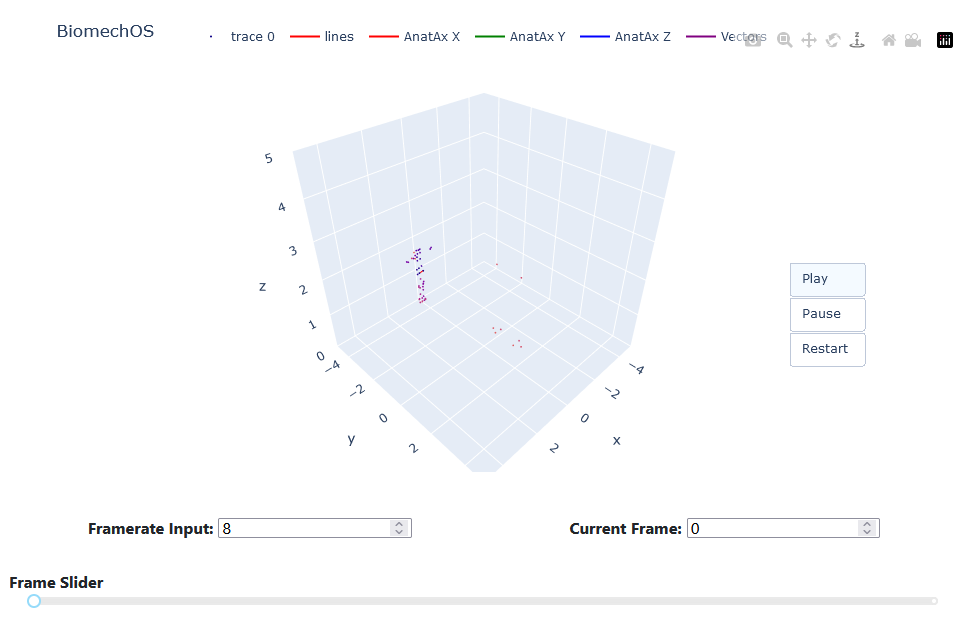
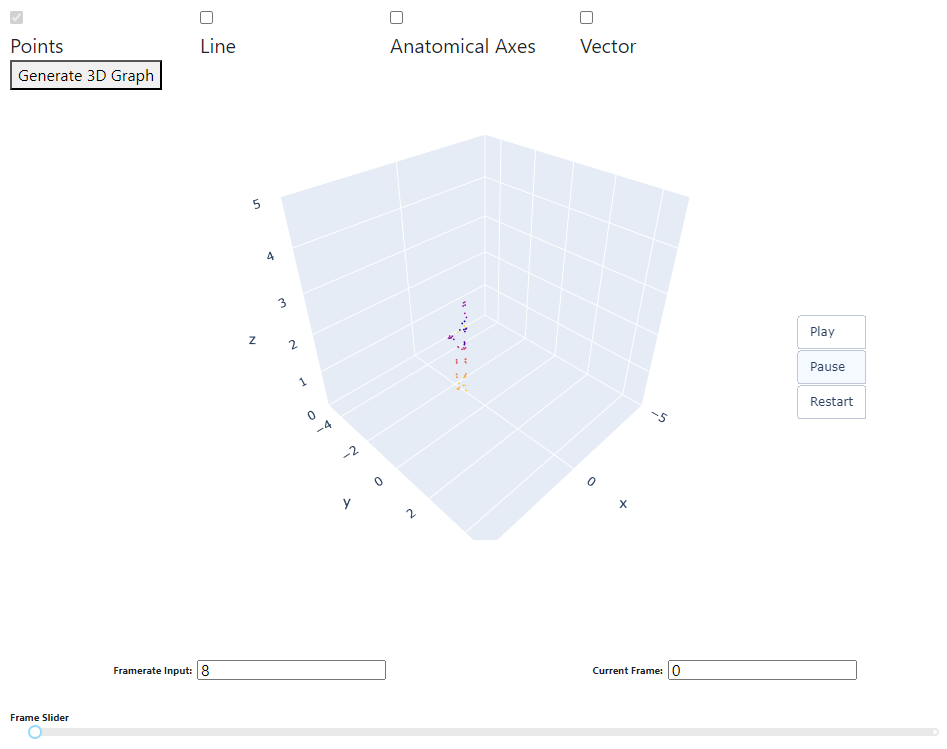
documentation updates

diff --git a/README.md b/README.md
@@ -1,6 +1,6 @@
-# BiomechOS
+# BiomechVis
 
-Within the research space, there are few tools that can be leveraged by labs for data visualization and analysis. This often leaves researchers to create their own tool to visualize their data. With BiomechOS we hope to solve the problem of standardization of data visualization tools for lab settings. BiomechOS will be capable of receiving a variety of import data, creating time series graphs in 2D space, generating 3D visualizations using a point and line system, and allowing user interaction with the visualized data. This will allow researchers to effectively view their data and deepen their analysis.
+Biomechanics is a relatively newer field of research, and there is not a lot of software infrastructure that allows researchers to interact with 3D motion capture data. Free and open-source visualization software options are rare and limited. With BiomechVis we hope to offer accessible data visualization tools for biomechanical research. BiomechVis is capable of receiving processed data in the form of .mat files, creating 2D time series graphs, and generating 3D and 2D visualizations using point and line graphs. This system allows researchers to better view and interact with their data to deepen their analyses.
 
 ## Table of Contents
 
@@ -17,6 +17,7 @@ Within the research space, there are few tools that can be leveraged by labs for
     * [2D Visualizer](#2d-visualizer)
         - [Drag and Drop or Select Files Box](#drag-and-drop-or-select-files-box)
         - [Interactive Graph Selection for Time Series](#interactive-graph-selection-for-time-series)
+    * [Running Multiple Trials at Once](#running-multiple-trials-at-once)
 -   [Contributing](#contributing)
 
 ## Installation
@@ -35,7 +36,7 @@ After installing the necessary dependencies, execute the program:
 python plotDash.py
 ```
 
-Note: Please ensure the terminal is currently set to the directory that contains the python script.  To do so, run cd "path to folder" ex: cd C:\Users\Name\Documents\BiomechOS
+Note: Please ensure the terminal is currently set to the directory that contains the python script.  To do so, run cd "path to folder" ex: cd C:\Users\Name\Documents\BiomechVis
 
 From here, you can select mat files to import into the project using the file selector.
 
@@ -47,7 +48,7 @@ Upon running, the following window will appear.
 
 ![File Selector](imgs/file_loader.png)
 
-Select Browse.  There are five mat files needed to run the program. Each mat file corresponds to one of the following: Points, Vectors, Anatomical Axis, Segment Center of Mass and Total Body Center of Mass.  ALL FIVE must be selected for the program to run.
+Select Browse.  There are five mat files needed to run the program. Each mat file corresponds to one of the following: Points, Vectors, Anatomical Axis, Segment Center of Mass and Total Body Center of Mass.  At least points need to be put in for the visualizations to work, this is a plotly limitation.
 
 The following sections describe the way each data type must be passed.
 
@@ -71,13 +72,19 @@ The following sections describe the way each data type must be passed.
 
     A single N x 3 matrix representing the total body center of mass.  The matrix is represented the same way as all [points](#points).
 
+* It is important to note that the name of the file is not important, however the name of the structure that the data is stored in needs to be 'Data'. The renaming of the structure can be done in MatLab. See the pictures below on how to check the name of your structure and where to look to rename it. Please make sure to save the structure name under 'Workspace', right-click the 'Data' and 'Save As' to save the new structure name under a new MAT file.
+
+![Data](imgs/data.PNG)
+
+![Workspace](imgs/workspace.PNG)
+
 ## Viewing and Controling the Visualization
 
 Once the files have been selected, a local url will be displayed in the terminal.  
 
 ![URL](imgs/url.png)
 
-Navigate to that url on any browser to view the GUI.
+Navigate to that url on any browser to view the GUI. Note that if you cannot see the entirity of the display when in your browser please zoom out by using hitting both (Ctrl) and (-) keys.
 
 On the left half of the screen is the [3D Visualizer](#3d-visualizer) and on the right half is the [2D Visualizer](#2d-visualizer)
 
@@ -90,12 +97,15 @@ For either visualization, hover over a point to display information about it, su
 
     To rotate the camera, click and drag anywhere withing the plot.  To zoom, scroll in or out. When hovering over the graph, the icons in the top right can also be used to control the camera more precisely.  For more information about these icons, please see: https://plotly.com/chart-studio-help/getting-to-know-the-plotly-modebar/
 
-    The Framerate input is the sub sampling rate.  If the framerate input is set to 10, every 10th frame will be drawn in the 3D plot.  This sampling will start from the current frame
+    The Framerate input is the sub sampling rate.  If the framerate input is set to 10, every 10th frame will be drawn in the 3D plot.  This sampling will start from the current frame.
 
     The Current Frame can be used to create a plot of a specific frame.  When set, the 3D plot will be redrawn with the first displayed image being the "Current frame".  The Current Frame also functions as the start frame.  The displayed 3D plot will not be able to go before the current frame.  When restarted, the plot will return to the frame set in Current Frame.
 
     The Frame Slider is also provided for control over the Current Frame.  When set, the Frame Slider will update the Current Frame with the value selected
 
+    Choose which data types you would like to be displayed by checking the boxes above the graph, this can be changed at any time and the graph can be regenerated by clicking the box
+
+    * Note: The displaying of multiple data types is done by data type, not by file. If multiple of one data type is put in the displaying of mutliple trials will be done, however there are some limitations when choosing which trial to display individually per file. 
 
 - ### 2D Visualizer
 
@@ -104,7 +114,7 @@ For either visualization, hover over a point to display information about it, su
 
     - #### Drag and Drop or Select Files Box
 
-        Selecting this box will open a new file explorer prompt.  Either select the five new files or drag them into the box to add this new trial to the data.  Again ALL FIVE files must be selected to add this trial.
+        Selecting this box will open a new file explorer prompt.  Either select new files or drag them into the box to add this new trial to the data.  Again at least points need to be chosen. The data you display can be changed at any time during usage.
 
     - #### Interactive Graph Selection for Time Series
 
@@ -112,26 +122,29 @@ For either visualization, hover over a point to display information about it, su
 
         ![Time Series](imgs/time_series.png)
 
-        The graph title, x axis label and y axis label can all be set in the first three boxes.  
+        The graph title, x axis label and y axis label can all be set in the first three boxes. If one is not set it will automatically be filled in by the selected points.
         
         The height controls the total height (in pixels) of the visualization
 
+        Note that only points and vectors can be visualized on 2D graphs.
+
         Use the leftmost dropdown to select the point to plot.  When the dropdown is clicked, you can type to search for the point name.  Point names are taken directly from imported data.
 
-        Use the second dropdown to select which dimension of the point to plot.  You can plot the X, Y or Z.  This dimension will be plotted on the y axis over time or another point of data that you selected. If not point is selected for the X-axis, by default it will be time.
+        Use the second dropdown to select which dimension of the point to plot.  You can plot the X, Y or Z.  This dimension will be plotted on the y axis over time or another point of data that you selected. If not point is selected for the X-axis, by default it will be time displayed in frames.
 
         The last box allows you to select the color of the line.
 
         Click "Add Another Line" to add another line on this 2D plot.
 
-        At this time the "Customize Graph" button has not been implemented.
-
-        Click "Remove Graph" to delete the above graph
+        At this time the "Customize Graph" button has not been implemented. If there is something you want to change on a 2D graph you must click "Remove Graph" to delete the graph and remake it.
 
         Note: You can add as many plots or lines to a single plot as you want.
 
         Note: When hovering over a graph, the icons in the top right can also be used to control the graph more precisely.  For more information about these icons, please see: https://plotly.com/chart-studio-help/getting-to-know-the-plotly-modebar/
 
+- ### Running Multiple Trials at Once
+
+        Due to limitations of Plotly and the displaying of the 2D graphs, running of multiple trials should be done by running multiple instances of the program. Full implementation of visualizing multiple trials is done by data type not file. In the 2D graph the program cannot determine which files points are connected to in its current state.
 
 ## Contributing
 
